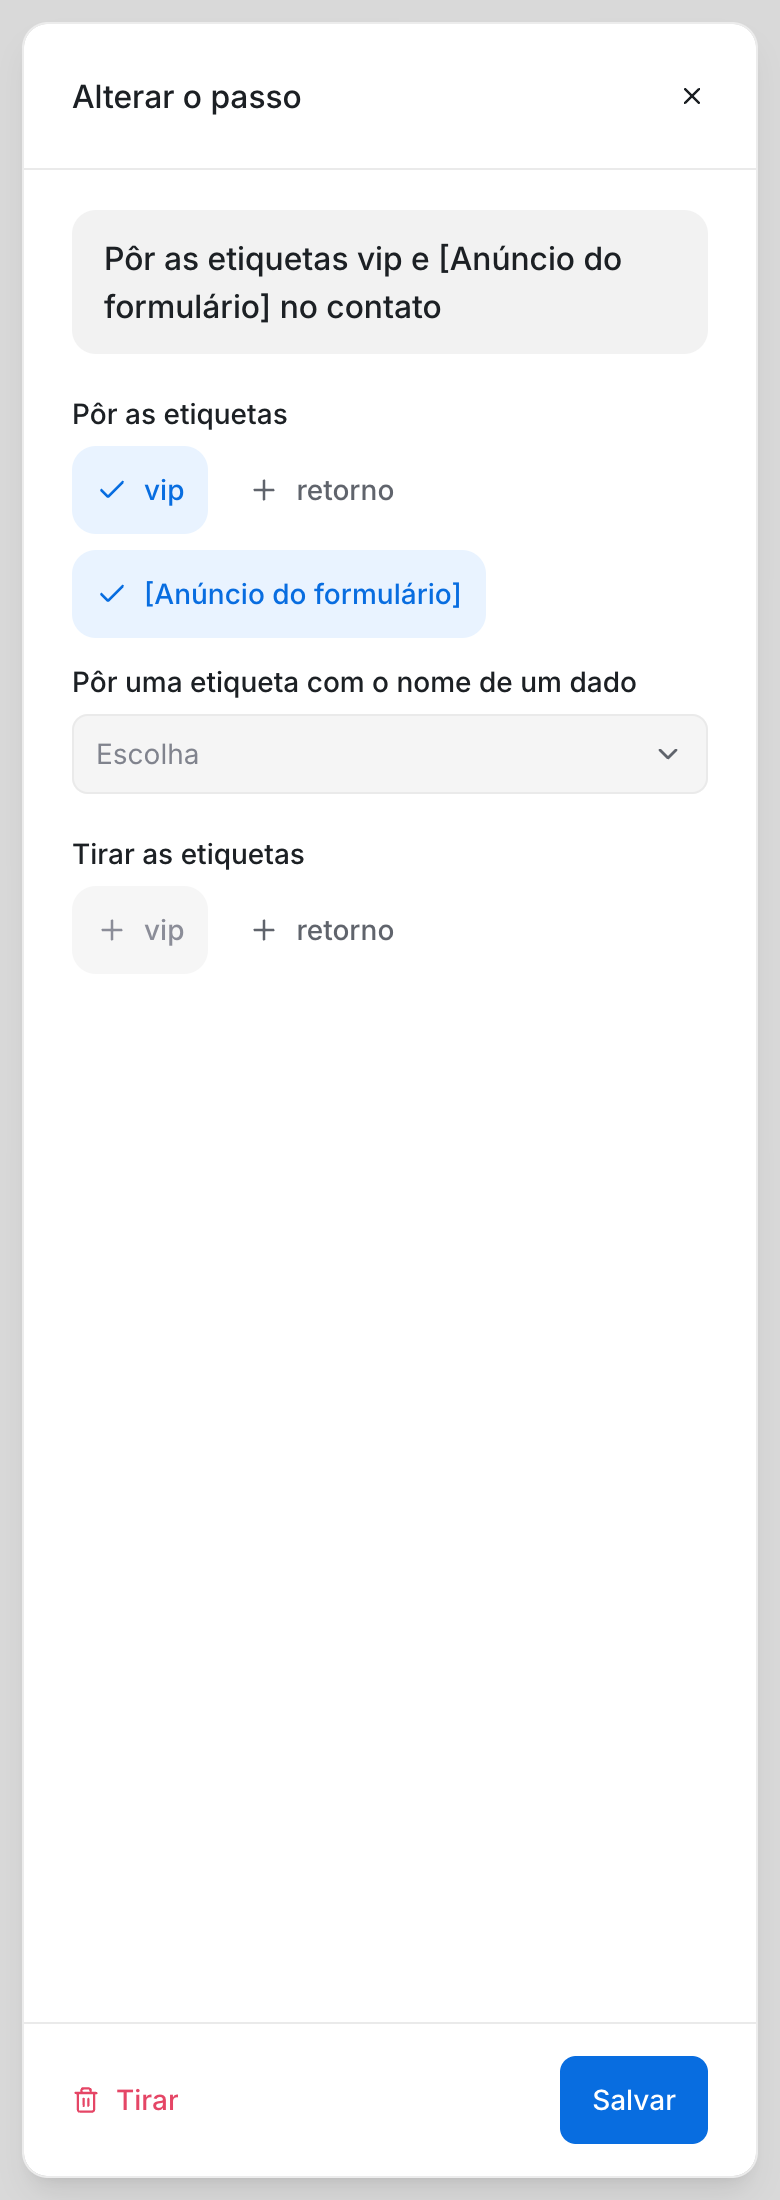
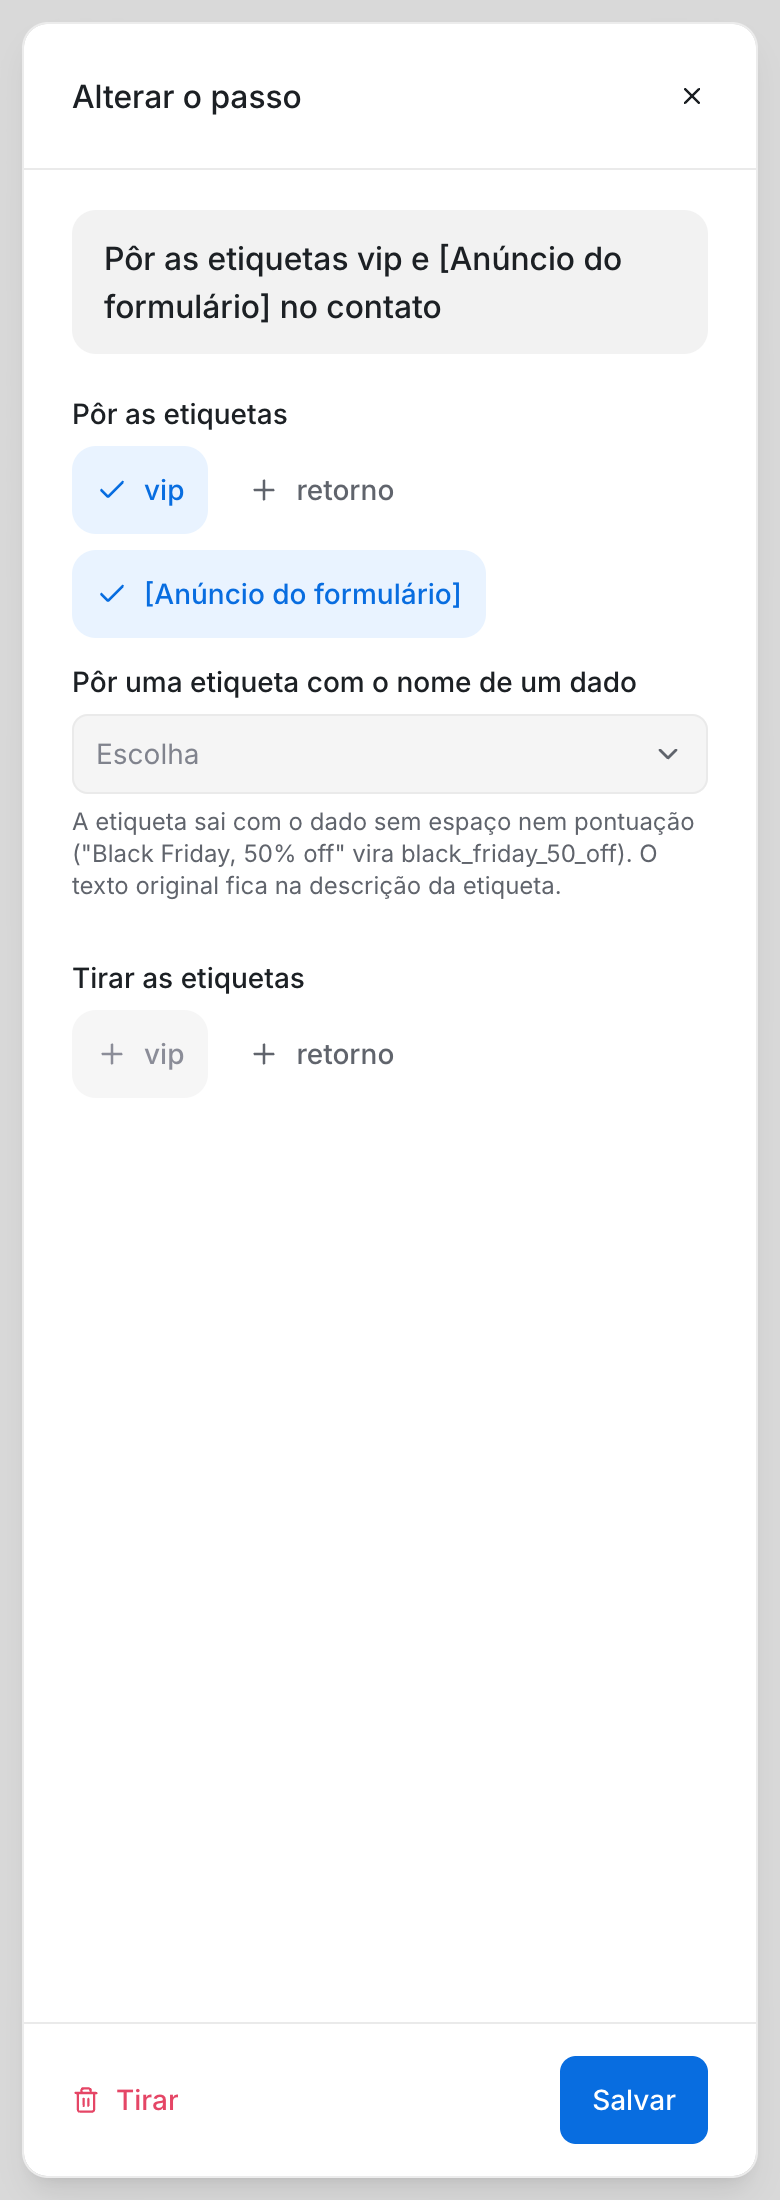
fix(automacao): nome do anúncio vira etiqueta válida, com o original na descrição (#2702)
Nome real de anúncio tem espaço, vírgula, aspas, % e acento, e a rota de
etiquetas recusava: o passo 1 do exemplo 2 falhava. O valor que vem de um
dado no passo de etiquetas passa pela regra do Label (EtiquetaDoTexto) e,
quando quem ligou pode cadastrar etiqueta, ela nasce com o texto original
na descrição (EtiquetasDoDado). O editor explica como a etiqueta sai.

Refs #2702
Refs #2414

Changed region(s): [[0.0923, 0.3709, 0.8615, 0.4945], [0.4, 0.4636, 0.4923, 0.4945]]

diff --git a/app/javascript/dashboard/routes/dashboard/automacoes/livre/components/LivreMarcar.vue b/app/javascript/dashboard/routes/dashboard/automacoes/livre/components/LivreMarcar.vue
@@ -104,6 +104,9 @@ const alternar = valor =>
         :options="dadosLivres"
         @update:model-value="porDado"
       />
+      <p class="text-xs text-n-slate-11">
+        {{ $t('AUTOMACAO_LIVRE.ALTERAR_PAINEL.POR_DADO_AJUDA') }}
+      </p>
     </div>
   </fieldset>
 </template>

diff --git a/app/services/autonomia/automacao/etiquetas_do_dado.rb b/app/services/autonomia/automacao/etiquetas_do_dado.rb
@@ -1,0 +1,53 @@
+# G29 (#2702): a etiqueta com o nome de um dado (`{"$valor": "card.anuncio"}` no "Pôr" ou no "Tirar" de etiquetas).
+# O dado lido vira etiqueta pela regra da tela de etiquetas (EtiquetaDoTexto): "Black Friday, 50% off" sai
+# "black_friday_50_off". As etiquetas escolhidas da lista ficam como estão: a tela só oferece as que existem.
+#
+# O texto original fica onde a pessoa olha: a etiqueta é cadastrada na conta com ele na descrição, que aparece ao passar
+# o mouse sobre ela no contato e na conversa. Só quando quem ligou a automação pode cadastrar etiqueta (`label_manage`,
+# a mesma chave da tela) e a etiqueta ainda não existe: a automação nunca faz o que a pessoa não poderia.
+class Autonomia::Automacao::EtiquetasDoDado
+  ACOES = ['PATCH conversations/:conversation_id/labels/alterar', 'PATCH contacts/:contact_id/labels/alterar'].freeze
+  CAMPOS = %w[por tirar].freeze
+  PERMISSAO = 'label_manage'.freeze
+  # O corpo com as etiquetas prontas, o texto de cada uma, ou o motivo do pulo.
+  Pronto = Struct.new(:corpo, :originais, :motivo, keyword_init: true)
+
+  def self.aplica?(acao) = ACOES.include?(acao)
+
+  # `receita`: o corpo como está na receita (onde estão os dados); `montado`: o mesmo corpo com os dados já lidos.
+  def self.preparar(receita, montado)
+    originais = {}
+    corpo = ::Autonomia::Automacao::Corpo.lugares(receita.to_h).reduce(montado) do |atual, (onde, _folha)|
+      next atual unless CAMPOS.include?(onde.first.to_s)
+
+      texto = atual.dig(*onde).to_s
+      etiqueta = ::Autonomia::Automacao::EtiquetaDoTexto.de(texto)
+      return Pronto.new(motivo: 'etiqueta_sem_nome_valido') if etiqueta.nil?
+
+      originais[etiqueta] = texto
+      trocado(atual, onde, etiqueta)
+    end
+    Pronto.new(corpo: corpo, originais: originais)
+  end
+
+  # O corpo com o valor trocado no lugar (`onde`: as chaves e os índices até ele), sem mexer no original.
+  def self.trocado(corpo, onde, valor)
+    chave, *resto = onde
+    novo = resto.empty? ? valor : trocado(corpo[chave], resto, valor)
+    return corpo.merge(chave => novo) unless corpo.is_a?(Array)
+
+    corpo.each_with_index.map { |item, indice| indice == chave ? novo : item }
+  end
+
+  def self.cadastrar(originais, account:, account_user:)
+    return if originais.empty? || !account_user&.permission_granted?(PERMISSAO)
+
+    existentes = account.labels.where(title: originais.keys).pluck(:title)
+    originais.except(*existentes).each do |titulo, texto|
+      account.labels.create!(title: titulo, description: texto)
+    rescue ActiveRecord::RecordInvalid, ActiveRecord::RecordNotUnique => e
+      # Outra execução cadastrou a mesma etiqueta no meio-tempo: a etiqueta já está no contato, falta só a descrição.
+      Rails.logger.info("[automacao][etiqueta] nao_cadastrada conta=#{account.id} #{e.class}")
+    end
+  end
+end

diff --git a/spec/services/autonomia/automacao/etiquetas_do_dado_spec.rb b/spec/services/autonomia/automacao/etiquetas_do_dado_spec.rb
@@ -1,0 +1,40 @@
+require 'rails_helper'
+
+# G29 (#2702): a etiqueta com o nome de um dado no passo de etiquetas.
+RSpec.describe Autonomia::Automacao::EtiquetasDoDado do
+  let(:account) { create(:account) }
+  let(:receita) { { 'por' => ['vip', { '$valor' => 'card.anuncio' }], 'tirar' => ['lead'] } }
+
+  it 'converte só a etiqueta que veio de um dado e guarda o texto original', :aggregate_failures do
+    pronto = described_class.preparar(receita, { 'por' => ['vip', 'Black Friday, 50% off'], 'tirar' => ['lead'] })
+
+    expect(pronto.corpo).to eq({ 'por' => %w[vip black_friday_50_off], 'tirar' => ['lead'] })
+    expect(pronto.originais).to eq({ 'black_friday_50_off' => 'Black Friday, 50% off' })
+  end
+
+  it 'pula quando o dado não vira etiqueta nenhuma' do
+    expect(described_class.preparar(receita, { 'por' => ['vip', '%%'], 'tirar' => ['lead'] }).motivo).to eq('etiqueta_sem_nome_valido')
+  end
+
+  it 'cadastra a etiqueta com o texto original só para quem pode cadastrar etiqueta', :aggregate_failures do
+    agente = create(:user, account: account, role: :agent)
+    admin = create(:user, account: account, role: :administrator)
+    originais = { 'black_friday_50_off' => 'Black Friday, 50% off' }
+
+    described_class.cadastrar(originais, account: account, account_user: AccountUser.find_by(user: agente, account: account))
+    expect(account.labels).to be_empty
+
+    described_class.cadastrar(originais, account: account, account_user: AccountUser.find_by(user: admin, account: account))
+    expect(account.labels.sole).to have_attributes(title: 'black_friday_50_off', description: 'Black Friday, 50% off')
+  end
+
+  it 'não mexe na etiqueta que a conta já tem' do
+    account.labels.create!(title: 'black_friday_50_off', description: 'escrita pela dona')
+    admin = create(:user, account: account, role: :administrator)
+
+    described_class.cadastrar({ 'black_friday_50_off' => 'Black Friday, 50% off' },
+                              account: account, account_user: AccountUser.find_by(user: admin, account: account))
+
+    expect(account.labels.sole.description).to eq('escrita pela dona')
+  end
+end

diff --git a/spec/fechamento/automacao/g29_origem_do_card_spec.rb b/spec/fechamento/automacao/g29_origem_do_card_spec.rb
@@ -56,10 +56,12 @@ RSpec.describe 'Fechamento #2414 · G29: origem do card e anúncio do formulári
   # O lead como a Graph da Meta o entrega ao webhook e ao "trazer os antigos".
   def lead_do_formulario
     { 'id' => 'L2702', 'created_time' => '2026-11-08T12:00:00+0000', 'form_id' => '9001', 'ad_id' => '77',
-      'ad_name' => 'Apartamento Jardim', 'campaign_name' => 'Lançamento',
+      'ad_name' => 'Black Friday, 50% off "Jardim" Promoção', 'campaign_name' => 'Lançamento',
       'field_data' => [{ 'name' => 'full_name', 'values' => ['Ana Souza'] }, { 'name' => 'phone_number', 'values' => ['+5511987652702'] }] }
   end
 
+  # O nome real do anúncio (espaço, vírgula, aspas, "%" e acento) vira etiqueta pela regra da tela de etiquetas, e o
+  # texto original fica na descrição da etiqueta, que a Marina vê ao passar o mouse sobre ela.
   it 'lead do formulário: a automação passa no filtro e põe no contato a etiqueta com o nome do anúncio', :aggregate_failures do
     automacao = ligada
 
@@ -70,7 +72,9 @@ RSpec.describe 'Fechamento #2414 · G29: origem do card e anúncio do formulári
     card = account.crm_cards.sole
     expect(resultado).to eq(:created)
     expect(historico_de(automacao)).to eq([['etiqueta', 'ok', nil]])
-    expect(card.contact.reload.label_list).to eq(['apartamento jardim'])
+    expect(card.contact.reload.label_list).to eq(['black_friday_50_off_jardim_promoção'])
+    expect(account.labels.sole).to have_attributes(title: 'black_friday_50_off_jardim_promoção',
+                                                   description: 'Black Friday, 50% off "Jardim" Promoção')
   end
 
   def controle_passo

diff --git a/app/services/autonomia/automacao/passo_de_acao.rb b/app/services/autonomia/automacao/passo_de_acao.rb
@@ -48,7 +48,13 @@ class Autonomia::Automacao::PassoDeAcao
   def agir(caminho, corpo)
     caderno = ::Autonomia::Guide::Execucao.abrir(account: @execucao.account, user: @acesso.usuario)
     resultado = no_caderno(caderno) { motor.executar(@passo['acao'], dados(caminho, corpo)) }
+    cadastrar_etiquetas if resultado.ok
     classificar(resultado, motor.codigo, caderno)
+  end
+
+  def cadastrar_etiquetas
+    ::Autonomia::Automacao::EtiquetasDoDado.cadastrar(@etiquetas_do_dado.to_h, account: @execucao.account,
+                                                                               account_user: @acesso.account_user)
   end
 
   def motor
@@ -75,7 +81,20 @@ class Autonomia::Automacao::PassoDeAcao
     return pulado(montado.motivo) if montado.motivo
 
     fora = fora_do_formato(montado.corpo)
-    fora.any? ? pulado('valor_fora_do_formato', 'problemas' => fora) : montado.corpo
+    return pulado('valor_fora_do_formato', 'problemas' => fora) if fora.any?
+
+    etiquetas_prontas(montado.corpo)
+  end
+
+  # G29 (#2702): a etiqueta com o nome de um dado sai pela regra da tela de etiquetas (EtiquetasDoDado).
+  def etiquetas_prontas(corpo)
+    return corpo unless ::Autonomia::Automacao::EtiquetasDoDado.aplica?(@passo['acao'])
+
+    pronto = ::Autonomia::Automacao::EtiquetasDoDado.preparar(@passo['corpo'], corpo)
+    return pulado(pronto.motivo) if pronto.motivo
+
+    @etiquetas_do_dado = pronto.originais
+    pronto.corpo
   end
 
   # O corpo literal o salvar já conferiu. O calculado só existe agora: confere com o valor de verdade (opção fora da

diff --git a/app/services/autonomia/automacao/etiqueta_do_texto.rb b/app/services/autonomia/automacao/etiqueta_do_texto.rb
@@ -1,0 +1,33 @@
+# G29 (#2702): um texto da receita (o nome do anúncio do formulário) vira etiqueta. Nome real de anúncio tem espaço,
+# vírgula, aspas e "%" ("Black Friday, 50% off"), e a etiqueta só aceita o que a tela de etiquetas aceita (Label:
+# letras, inclusive acentuadas, números, "-" e "_", duas no mínimo, em minúsculas). O resto vira "_", sem "_" repetido
+# nem nas pontas: "black_friday_50_off". O texto original fica na descrição da etiqueta (PassoDeAcao).
+#
+# Devolve nil quando não sobra etiqueta que o Label aceite ("%%", uma letra só): o passo pula com o motivo.
+module Autonomia::Automacao::EtiquetaDoTexto
+  SEPARADOR = '_'.freeze
+  PERMITIDOS = ['-', SEPARADOR].freeze
+  TAMANHO_MAXIMO = 255
+
+  module_function
+
+  def de(texto)
+    etiqueta = aparar(trocar_o_que_nao_cabe(texto.to_s.downcase).first(TAMANHO_MAXIMO))
+    etiqueta if RegexHelper::UNICODE_CHARACTER_NUMBER_HYPHEN_UNDERSCORE.match?(etiqueta)
+  end
+
+  def trocar_o_que_nao_cabe(texto)
+    texto.each_char.map { |letra| cabe?(letra) ? letra : SEPARADOR }.join.split(SEPARADOR).reject(&:empty?).join(SEPARADOR)
+  end
+
+  # Letra com maiúscula e minúscula (o "ç" e o "ã" também), algarismo, "-" ou "_".
+  def cabe?(letra)
+    letra.upcase != letra.downcase || letra.between?('0', '9') || PERMITIDOS.include?(letra)
+  end
+
+  def aparar(etiqueta)
+    etiqueta = etiqueta[1..] while etiqueta.start_with?(*PERMITIDOS)
+    etiqueta = etiqueta[..-2] while etiqueta.end_with?(*PERMITIDOS)
+    etiqueta
+  end
+end

diff --git a/spec/services/autonomia/automacao/etiqueta_do_texto_spec.rb b/spec/services/autonomia/automacao/etiqueta_do_texto_spec.rb
@@ -1,0 +1,27 @@
+require 'rails_helper'
+
+# G29 (#2702): o nome do anúncio vira etiqueta pela regra da tela de etiquetas (Label: letras, inclusive acentuadas,
+# números, "-" e "_", e duas letras no mínimo). O que a regra não aceita vira "_".
+RSpec.describe Autonomia::Automacao::EtiquetaDoTexto do
+  it 'transforma nome de anúncio real em etiqueta que o Label aceita', :aggregate_failures do
+    casos = {
+      'Apartamento Jardim' => 'apartamento_jardim',
+      'Black Friday, 50% off' => 'black_friday_50_off',
+      'Promoção "Verão" 2026' => 'promoção_verão_2026',
+      "Casa d'Água – Lançamento" => 'casa_d_água_lançamento',
+      '  -- Lote_7 --  ' => 'lote_7',
+      'já-válida' => 'já-válida'
+    }
+
+    casos.each do |nome, etiqueta|
+      expect(described_class.de(nome)).to eq(etiqueta)
+      expect(Label.new(account: build(:account), title: described_class.de(nome))).to be_valid
+    end
+  end
+
+  it 'não inventa etiqueta quando não sobra nome que o Label aceite', :aggregate_failures do
+    expect(described_class.de('%%')).to be_nil
+    expect(described_class.de('A')).to be_nil
+    expect(described_class.de(nil)).to be_nil
+  end
+end

diff --git a/docs/audit/2026-11-08-2702-g29-origem/README.md b/docs/audit/2026-11-08-2702-g29-origem/README.md
@@ -10,5 +10,6 @@ tradução ficou faltando e a página não registrou erro.
   "um formulário de anúncio". A frase do topo diz "De onde o card veio é um formulário de anúncio".
 - `etiqueta-*.png`: o passo "Pôr etiqueta no contato" aberto. A frase, no topo do painel e na linha do passo no
   Confira, diz "Pôr as etiquetas vip e [Anúncio do formulário] no contato". Em "Pôr as etiquetas", `vip` marcada e o dado posto como chip
-  "[Anúncio do formulário]"; embaixo, o seletor "Pôr uma etiqueta com o nome de um dado". Em "Tirar as etiquetas",
+  "[Anúncio do formulário]"; embaixo, o seletor "Pôr uma etiqueta com o nome de um dado" e a ajuda "A etiqueta sai com o dado sem espaço nem
+  pontuação ("Black Friday, 50% off" vira black_friday_50_off). O texto original fica na descrição da etiqueta." Em "Tirar as etiquetas",
   `vip` aparece bloqueada porque já está em "Pôr" (comportamento antigo).
